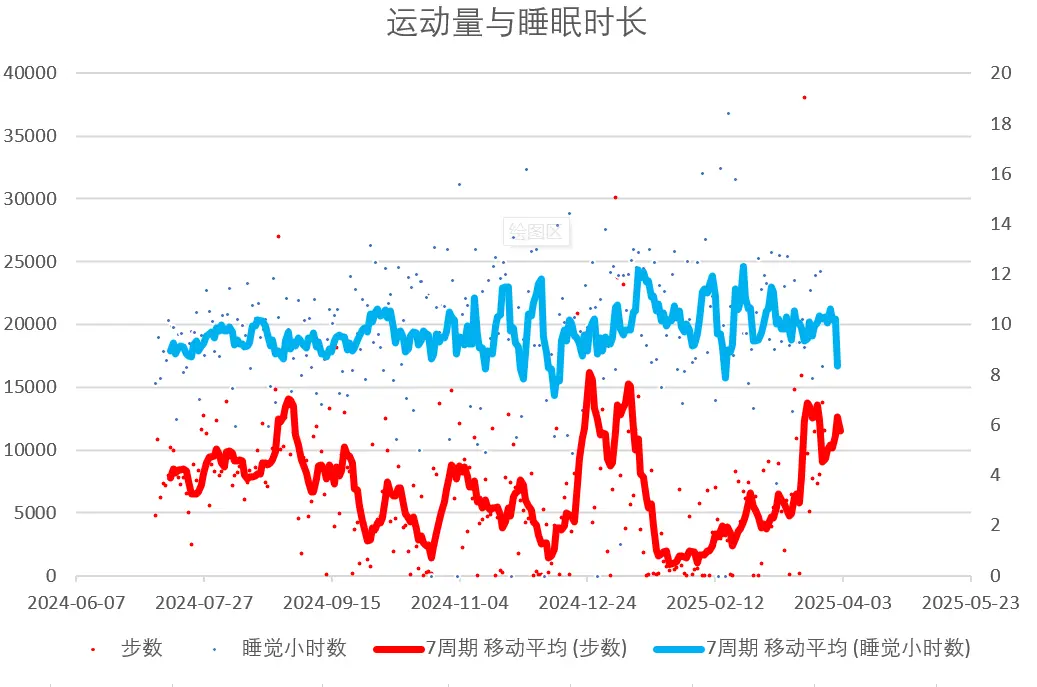
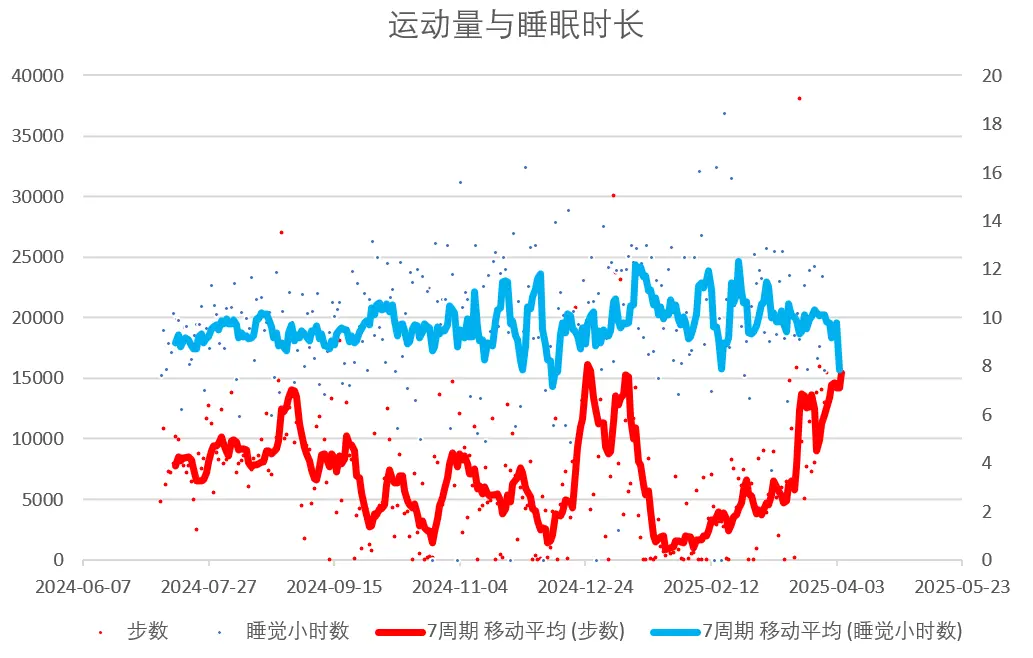
20250403

diff --git a/that.html b/that.html
@@ -12,12 +12,12 @@
 <link href="/blog/css/main.css" rel="stylesheet"/>
 <link crossorigin="anonymous" href="https://unpkg.com/@fortawesome/fontawesome-free@6.6.0/css/all.min.css" integrity="sha256-5eIC48iZUHmSlSUz9XtjRyK2mzQkHScZY1WdMaoz74E=" rel="stylesheet"/>
 <script class="next-config" data-name="main" type="application/json">{"hostname":"hrfis.me","root":"/blog/","images":"/blog/images","scheme":"Gemini","darkmode":false,"version":"8.21.0","exturl":false,"sidebar":{"position":"left","width_expanded":320,"width_dual_column":240,"display":"post","padding":18,"offset":12},"hljswrap":true,"copycode":{"enable":false,"style":null},"fold":{"enable":false,"height":500},"bookmark":{"enable":false,"color":"#222","save":"auto"},"mediumzoom":false,"lazyload":false,"pangu":true,"comments":{"style":"tabs","active":null,"storage":true,"lazyload":false,"nav":null},"stickytabs":false,"motion":{"enable":false,"async":false,"transition":{"menu_item":"fadeInDown","post_block":"fadeIn","post_header":"fadeInDown","post_body":"fadeInDown","coll_header":"fadeInLeft","sidebar":"fadeInUp"}},"i18n":{"placeholder":"搜索...","empty":"没有找到任何搜索结果：${query}","hits_time":"找到 ${hits} 个搜索结果（用时 ${time} 毫秒）","hits":"找到 ${hits} 个搜索结果"}}</script><script src="/blog/js/config.js"></script>
-<meta content="移动平均的特点是：即使你有一天走了 35000 步，但你如果在这之后的几天一步都不走的话，那么它会被拉低。在这幅图里，最右边的端点是尚未被之后的几天平均的。 为什么有时候早上还是起不来：还是出于一种逃避现实的心理，因为心里有事，有一些不太好的事情。但是最近的晚上都能睡着，比以前都进步了。" name="description"/>
+<meta content="移动平均的特点是：即使你有一天走了 35000 步，但你如果在这之后的几天一步都不走的话，那么它会被拉低。在这幅图里，最右边的端点是尚未被之后的几天平均的，也有在一天没有结束就上传的情况。 为什么有时候早上还是起不来：还是出于一种逃避现实的心理，因为心里有事，有一些不太好的事情。但是最近的晚上都能睡着，比以前都进步了。" name="description"/>
 <meta content="article" property="og:type"/>
 <meta content="旧事汇总处" property="og:title"/>
 <meta content="https://hrfis.me/blog/that.html" property="og:url"/>
 <meta content="若凡的笔记" property="og:site_name"/>
-<meta content="移动平均的特点是：即使你有一天走了 35000 步，但你如果在这之后的几天一步都不走的话，那么它会被拉低。在这幅图里，最右边的端点是尚未被之后的几天平均的。 为什么有时候早上还是起不来：还是出于一种逃避现实的心理，因为心里有事，有一些不太好的事情。但是最近的晚上都能睡着，比以前都进步了。" property="og:description"/>
+<meta content="移动平均的特点是：即使你有一天走了 35000 步，但你如果在这之后的几天一步都不走的话，那么它会被拉低。在这幅图里，最右边的端点是尚未被之后的几天平均的，也有在一天没有结束就上传的情况。 为什么有时候早上还是起不来：还是出于一种逃避现实的心理，因为心里有事，有一些不太好的事情。但是最近的晚上都能睡着，比以前都进步了。" property="og:description"/>
 <meta content="zh_CN" property="og:locale"/>
 <meta content="https://hrfis.me/blog/images/weekly/weekly.webp" property="og:image"/>
 <meta content="https://hrfis.me/blog/images/weierstrassa=0.5b=13.webp" property="og:image"/>
@@ -26,7 +26,7 @@
 <meta content="https://hrfis.me/blog/images/alpha-point.webp" property="og:image"/>
 <meta content="https://hrfis.me/blog/images/weekly/river.webp" property="og:image"/>
 <meta content="2014-09-03T13:00:00.000Z" property="article:published_time"/>
-<meta content="2025-04-02T07:20:03.411Z" property="article:modified_time"/>
+<meta content="2025-04-03T05:21:46.902Z" property="article:modified_time"/>
 <meta content="Ruofan" property="article:author"/>
 <meta content="summary" name="twitter:card"/>
 <meta content="https://hrfis.me/blog/images/weekly/weekly.webp" name="twitter:image"/>
@@ -82,7 +82,7 @@
 <div class="sidebar-panel-container">
 <!--noindex-->
 <div class="post-toc-wrap sidebar-panel">
-<div class="post-toc animated"><ol class="nav"><li class="nav-item nav-level-2"><a class="nav-link" href="#%E4%B8%BA%E4%BB%80%E4%B9%88%E8%A6%81%E8%B7%91%E6%AD%A5"><span class="nav-number">1.</span> <span class="nav-text">为什么要跑步</span></a></li><li class="nav-item nav-level-2"><a class="nav-link" href="#%E6%88%91%E7%9A%84%E6%80%A7%E6%A0%BC%E9%94%99%E8%AF%AF"><span class="nav-number">2.</span> <span class="nav-text">我的性格错误</span></a></li><li class="nav-item nav-level-2"><a class="nav-link" href="#ai-%E7%94%9F%E6%88%90%E7%9A%84%E5%BC%8A%E7%AB%AF"><span class="nav-number">3.</span> <span class="nav-text">AI 生成的弊端</span></a></li><li class="nav-item nav-level-2"><a class="nav-link" href="#%E4%B8%BA%E4%BB%80%E4%B9%88%E6%96%87%E5%AD%97%E7%9A%84%E6%80%A7%E6%A0%BC%E6%AF%94%E5%8F%A3%E5%A4%B4%E7%9A%84%E6%B4%BB%E8%B7%83"><span class="nav-number">4.</span> <span class="nav-text">为什么文字的性格比口头的活跃</span></a></li><li class="nav-item nav-level-2"><a class="nav-link" href="#%E4%B8%BA%E4%BB%80%E4%B9%88%E8%AF%B4%E8%87%AA%E5%B7%B1%E6%98%AF%E4%BC%AA%E5%96%84%E7%9A%84"><span class="nav-number">5.</span> <span class="nav-text">为什么说自己是伪善的</span></a></li><li class="nav-item nav-level-2"><a class="nav-link" href="#%E6%88%91%E7%9A%84%E4%BC%98%E7%82%B9%E5%92%8C%E7%BC%BA%E7%82%B9"><span class="nav-number">6.</span> <span class="nav-text">我的优点和缺点</span></a></li><li class="nav-item nav-level-2"><a class="nav-link" href="#%E4%B8%80%E7%A7%8D%E5%8F%AF%E4%BB%A5%E8%A2%AB%E5%8F%99%E8%BF%B0%E7%9A%84%E7%97%87%E7%8A%B6%E6%83%AD%E6%84%A7"><span class="nav-number">7.</span> <span class="nav-text">一种可以被叙述的症状：惭愧</span></a></li><li class="nav-item nav-level-2"><a class="nav-link" href="#%E9%BB%91%E5%8E%86%E5%8F%B2"><span class="nav-number">8.</span> <span class="nav-text">黑历史</span></a></li><li class="nav-item nav-level-2"><a class="nav-link" href="#%E4%B8%BB%E4%BA%BA%E8%83%BD%E6%8C%87%E4%B8%8E%E7%97%87%E7%8A%B6"><span class="nav-number">9.</span> <span class="nav-text">主人能指与症状</span></a></li><li class="nav-item nav-level-2"><a class="nav-link" href="#%E5%86%85%E5%90%91%E8%80%85%E7%9A%84%E5%9B%B4%E5%9F%8E"><span class="nav-number">10.</span> <span class="nav-text">内向者的围城</span></a></li><li class="nav-item nav-level-2"><a class="nav-link" href="#%E8%AF%B4%E8%AF%9D%E5%8D%A1%E5%A3%B3%E7%9A%84%E5%8E%9F%E5%9B%A0"><span class="nav-number">11.</span> <span class="nav-text">说话卡壳的原因</span></a></li><li class="nav-item nav-level-2"><a class="nav-link" href="#%E7%97%87%E7%8A%B6%E8%87%AA%E8%BF%B0%E6%82%96%E8%AE%BA"><span class="nav-number">12.</span> <span class="nav-text">症状自述悖论</span></a></li><li class="nav-item nav-level-2"><a class="nav-link" href="#%E5%88%9B%E4%BC%A4%E7%9A%84%E4%BB%A3%E9%99%85%E4%BC%A0%E9%80%92"><span class="nav-number">13.</span> <span class="nav-text">创伤的代际传递</span></a></li><li class="nav-item nav-level-2"><a class="nav-link" href="#%E5%85%B3%E4%BA%8E%E6%88%91%E4%BC%9A%E4%B8%8D%E4%BC%9A%E6%B3%84%E9%9C%B2%E6%9C%8B%E5%8F%8B%E7%9A%84%E9%9A%90%E7%A7%81"><span class="nav-number">14.</span> <span class="nav-text">关于我会不会泄露朋友的隐私</span></a></li><li class="nav-item nav-level-2"><a class="nav-link" href="#%E5%BF%83%E7%90%86%E7%96%BE%E7%97%85%E7%9A%84%E7%97%87%E7%8A%B6%E6%98%AF%E7%BB%93%E6%9E%9C%E8%80%8C%E9%9D%9E%E5%8E%9F%E5%9B%A0"><span class="nav-number">15.</span> <span class="nav-text">心理疾病的症状是结果，而非原因</span></a></li><li class="nav-item nav-level-2"><a class="nav-link" href="#%E5%A6%82%E4%BD%95%E8%AF%B4%E6%9C%8D%E8%87%AA%E5%B7%B1%E5%BF%83%E7%90%86%E5%88%9B%E4%BC%A4%E6%98%AF%E5%AE%A2%E8%A7%82%E4%B8%8D%E5%AD%98%E5%9C%A8%E7%9A%84"><span class="nav-number">16.</span> <span class="nav-text">如何说服自己：心理创伤是客观不存在的</span></a></li><li class="nav-item nav-level-2"><a class="nav-link" href="#%E5%B9%B4%E4%B8%AD%E6%80%BB%E7%BB%93"><span class="nav-number">17.</span> <span class="nav-text">2025 年中总结</span></a></li><li class="nav-item nav-level-2"><a class="nav-link" href="#%E5%B9%B4%E4%B8%AD%E6%80%BB%E7%BB%93-1"><span class="nav-number">18.</span> <span class="nav-text">2024 年中总结</span></a></li><li class="nav-item nav-level-2"><a class="nav-link" href="#%E6%BD%9C%E5%8A%9B%E6%B5%8B%E8%AF%95"><span class="nav-number">19.</span> <span class="nav-text">潜力测试</span></a></li></ol></div>
+<div class="post-toc animated"><ol class="nav"><li class="nav-item nav-level-2"><a class="nav-link" href="#%E4%B8%BA%E4%BB%80%E4%B9%88%E8%A6%81%E8%B7%91%E6%AD%A5"><span class="nav-number">1.</span> <span class="nav-text">为什么要跑步</span></a></li><li class="nav-item nav-level-2"><a class="nav-link" href="#%E6%88%91%E7%9A%84%E6%80%A7%E6%A0%BC%E9%94%99%E8%AF%AF"><span class="nav-number">2.</span> <span class="nav-text">我的性格错误</span></a></li><li class="nav-item nav-level-2"><a class="nav-link" href="#ai-%E7%94%9F%E6%88%90%E7%9A%84%E5%BC%8A%E7%AB%AF"><span class="nav-number">3.</span> <span class="nav-text">AI 生成的弊端</span></a></li><li class="nav-item nav-level-2"><a class="nav-link" href="#%E4%B8%BA%E4%BB%80%E4%B9%88%E6%96%87%E5%AD%97%E7%9A%84%E6%80%A7%E6%A0%BC%E6%AF%94%E5%8F%A3%E5%A4%B4%E7%9A%84%E6%B4%BB%E8%B7%83"><span class="nav-number">4.</span> <span class="nav-text">为什么文字的性格比口头的活跃</span></a></li><li class="nav-item nav-level-2"><a class="nav-link" href="#%E4%B8%BA%E4%BB%80%E4%B9%88%E8%AF%B4%E8%87%AA%E5%B7%B1%E6%98%AF%E4%BC%AA%E5%96%84%E7%9A%84"><span class="nav-number">5.</span> <span class="nav-text">为什么说自己是伪善的</span></a></li><li class="nav-item nav-level-2"><a class="nav-link" href="#%E6%88%91%E7%9A%84%E4%BC%98%E7%82%B9%E5%92%8C%E7%BC%BA%E7%82%B9"><span class="nav-number">6.</span> <span class="nav-text">我的优点和缺点</span></a></li><li class="nav-item nav-level-2"><a class="nav-link" href="#%E4%B8%80%E7%A7%8D%E5%8F%AF%E4%BB%A5%E8%A2%AB%E5%8F%99%E8%BF%B0%E7%9A%84%E7%97%87%E7%8A%B6%E6%83%AD%E6%84%A7"><span class="nav-number">7.</span> <span class="nav-text">一种可以被叙述的症状：惭愧</span></a></li><li class="nav-item nav-level-2"><a class="nav-link" href="#%E5%88%9D%E4%B8%AD%E6%97%B6%E6%9C%9F%E7%9A%84%E6%89%A7%E5%BF%B5"><span class="nav-number">8.</span> <span class="nav-text">初中时期的执念</span></a></li><li class="nav-item nav-level-2"><a class="nav-link" href="#%E9%BB%91%E5%8E%86%E5%8F%B2"><span class="nav-number">9.</span> <span class="nav-text">黑历史</span></a></li><li class="nav-item nav-level-2"><a class="nav-link" href="#%E4%B8%BB%E4%BA%BA%E8%83%BD%E6%8C%87%E4%B8%8E%E7%97%87%E7%8A%B6"><span class="nav-number">10.</span> <span class="nav-text">主人能指与症状</span></a></li><li class="nav-item nav-level-2"><a class="nav-link" href="#%E5%86%85%E5%90%91%E8%80%85%E7%9A%84%E5%9B%B4%E5%9F%8E"><span class="nav-number">11.</span> <span class="nav-text">内向者的围城</span></a></li><li class="nav-item nav-level-2"><a class="nav-link" href="#%E8%AF%B4%E8%AF%9D%E5%8D%A1%E5%A3%B3%E7%9A%84%E5%8E%9F%E5%9B%A0"><span class="nav-number">12.</span> <span class="nav-text">说话卡壳的原因</span></a></li><li class="nav-item nav-level-2"><a class="nav-link" href="#%E7%97%87%E7%8A%B6%E8%87%AA%E8%BF%B0%E6%82%96%E8%AE%BA"><span class="nav-number">13.</span> <span class="nav-text">症状自述悖论</span></a></li><li class="nav-item nav-level-2"><a class="nav-link" href="#%E5%88%9B%E4%BC%A4%E7%9A%84%E4%BB%A3%E9%99%85%E4%BC%A0%E9%80%92"><span class="nav-number">14.</span> <span class="nav-text">创伤的代际传递</span></a></li><li class="nav-item nav-level-2"><a class="nav-link" href="#%E5%85%B3%E4%BA%8E%E6%88%91%E4%BC%9A%E4%B8%8D%E4%BC%9A%E6%B3%84%E9%9C%B2%E6%9C%8B%E5%8F%8B%E7%9A%84%E9%9A%90%E7%A7%81"><span class="nav-number">15.</span> <span class="nav-text">关于我会不会泄露朋友的隐私</span></a></li><li class="nav-item nav-level-2"><a class="nav-link" href="#%E5%BF%83%E7%90%86%E7%96%BE%E7%97%85%E7%9A%84%E7%97%87%E7%8A%B6%E6%98%AF%E7%BB%93%E6%9E%9C%E8%80%8C%E9%9D%9E%E5%8E%9F%E5%9B%A0"><span class="nav-number">16.</span> <span class="nav-text">心理疾病的症状是结果，而非原因</span></a></li><li class="nav-item nav-level-2"><a class="nav-link" href="#%E5%A6%82%E4%BD%95%E8%AF%B4%E6%9C%8D%E8%87%AA%E5%B7%B1%E5%BF%83%E7%90%86%E5%88%9B%E4%BC%A4%E6%98%AF%E5%AE%A2%E8%A7%82%E4%B8%8D%E5%AD%98%E5%9C%A8%E7%9A%84"><span class="nav-number">17.</span> <span class="nav-text">如何说服自己：心理创伤是客观不存在的</span></a></li><li class="nav-item nav-level-2"><a class="nav-link" href="#%E5%B9%B4%E4%B8%AD%E6%80%BB%E7%BB%93"><span class="nav-number">18.</span> <span class="nav-text">2025 年中总结</span></a></li><li class="nav-item nav-level-2"><a class="nav-link" href="#%E5%B9%B4%E4%B8%AD%E6%80%BB%E7%BB%93-1"><span class="nav-number">19.</span> <span class="nav-text">2024 年中总结</span></a></li><li class="nav-item nav-level-2"><a class="nav-link" href="#%E6%BD%9C%E5%8A%9B%E6%B5%8B%E8%AF%95"><span class="nav-number">20.</span> <span class="nav-text">潜力测试</span></a></li></ol></div>
 </div>
 <!--/noindex-->
 <div class="site-overview-wrap sidebar-panel">
@@ -144,7 +144,7 @@
 <i class="far fa-calendar-check"></i>
 </span>
 <span class="post-meta-item-text">更新于</span>
-<time datetime="2025-04-02T15:20:03+08:00" itemprop="dateModified" title="修改时间：2025-04-02 15:20:03">2025-04-02</time>
+<time datetime="2025-04-03T13:21:46+08:00" itemprop="dateModified" title="修改时间：2025-04-03 13:21:46">2025-04-03</time>
 </span>
 <span class="post-meta-item">
 <span class="post-meta-item-icon">
@@ -167,21 +167,22 @@
 <i class="far fa-clock"></i>
 </span>
 <span class="post-meta-item-text">阅读时长 ≈</span>
-<span>42 分钟</span>
+<span>43 分钟</span>
 </span>
 </div>
 </div>
 </header>
 <div class="post-body" itemprop="articleBody"><p><img src="/blog/images/weekly/weekly.webp"/></p>
 <p>移动平均的特点是：即使你有一天走了 35000
-步，但你如果在这之后的几天一步都不走的话，那么它会被拉低。在这幅图里，最右边的端点是尚未被之后的几天平均的。</p>
+步，但你如果在这之后的几天一步都不走的话，那么它会被拉低。在这幅图里，最右边的端点是尚未被之后的几天平均的，也有在一天没有结束就上传的情况。</p>
 <p>为什么有时候早上还是起不来：还是出于一种逃避现实的心理，因为心里有事，有一些不太好的事情。但是最近的晚上都能睡着，比以前都进步了。</p>
 <span id="more"></span>
 <h2 id="为什么要跑步">为什么要跑步</h2>
 <p>为了新陈代谢。吃饭和喝水都是新陈代谢的一种方式，包括献血也是。由于我在静止、甚至在快步走路的情况下都是很难感觉到饿的，一般要等到非常饿的时候才吃得下饭，非常渴的时候才想得到喝水。跑步能让我在自然情况下被压制的饥饿感和渴感露出水面之上。</p>
 <h2 id="我的性格错误">我的性格错误</h2>
-<p>有时候觉得，让别人感到舒服是不太好的。比如有时候，我知道该怎么回复，能让别人的感受更好，但是我就是想避开这个回复。俗话说少不看水浒，这可能因为笔者小时候喜欢看《水浒传》，它的特点是，里面有许多拿钱贿赂别人的桥段。我老是觉得贿赂别人是不对的，比如说，有时候给别人说一句鼓励的话，就是贿赂别人，是在做人情投资，因为钱总是能让我联想到贿赂。更准确地说是：让别人开心
--&gt; 投资 -&gt; 给钱 -&gt; 贿赂的这一条联想的路。</p>
+<p>有时候觉得，让别人感到舒服是不太好的。比如有时候，我知道该怎么回复，能让别人的感受更好，但是我就是想避开这个回复。感觉有时候给别人说一句鼓励的话，就是在贿赂别人，是在做人情投资。钱总是能让我联想到贿赂。</p>
+<p>整理一下就是：让别人开心 -&gt; 投资 -&gt; 给钱 -&gt;
+贿赂的这一条自动思维。</p>
 <ul>
 <li>让别人开心 -&gt;
 投资：首先这个链条是不对的，前者分期待收益和不期待收益的情况，后者主要强调期待收益。这个链条通了，说明我是期待收益的</li>
@@ -194,12 +195,12 @@
 <blockquote>
 <p>这种思维模式反映出您对人际关系中 "纯粹性" 的高度敏感。您似乎在进行一种 "道德溯因"：当觉察到某个行为可能带有潜在目的时，就会产生强烈的排异反应。</p>
 </blockquote>
-<p>在《水浒传》里，起义的一方和朝廷的一方好像两头都是坏人，没有一个是完全的正方。或者正确地说，很多人的性格是既有善又有恶的：善的人被逼出了恶的一面的如林冲、武松；恶占多数，善占少数的如李逵（杀平民，但是孝敬母亲）；说不清善恶的如张青（人肉包子，但是把武松放了）。按书里的第一回，108
-将是来自天上星星对应的妖魔，但是妖魔也不是完全负面的词。再加上水浒传是悲剧结局，善终的人还是占少数。看《水浒传》的经历可能在某种程度上塑造了我的性格。我看的书很少，也没看过别的。还有《格列佛游记》，它的最后一篇也是比较悲观的。</p>
+<p>俗话说少不看水浒，这可能因为笔者小时候喜欢看《水浒传》，它的特点是，里面有许多拿钱贿赂别人的桥段。最主要的是，它是悲剧结局，相当于前面那么多人情，到最后还是没了。</p>
+<p>看《水浒传》的经历可能在某种程度上塑造了我的性格，我看的书很少，也没看过别的。还有《格列佛游记》，它的最后一篇也是比较悲观的。</p>
 <h2 id="ai-生成的弊端">AI 生成的弊端</h2>
-<p>当你给出不合适的提示词的时候，它会曲解你的原意，把你相对正经的情绪给轻蔑化、夸张化。这可能会造成别人的误解，因为你原本的情绪和
+<p>当你给出不合适的提示词的时候，它会曲解你的原意，给你添油加醋。这可能会造成别人的误解，因为你原本的情绪和
 AI 生成的是不一致的。很多纠结的时候就是出自这种情况：觉得 AI
-写得文字太油滑了，但是比自己写得稍微好一点。那为什么还是保留了：因为有节目效果。但是也有创伤。创伤转换成节目效果之后就不那么疼了。</p>
+写得文字太油滑了，但是比自己写得好一点。那为什么还是保留了：因为有节目效果。但是也有创伤。创伤转换成节目效果之后就不那么疼了。</p>
 <p>用 AI 修改过的文字包括这些：</p>
 <blockquote>
 <p>本网页的：内向者的围城 说话卡壳的原因 症状自述悖论 创伤的代际传递
@@ -217,20 +218,22 @@ AI
 的 “幻觉现象” 差不多，因为我和它都是通过以前阅读过的文字按概率生成的，且它阅读得远比我多。</p>
 <p>目的上的：因为这里是主场，在出于一种追求节目效果的情况下，可能会故意地夸大一些事实。节目效果的意思是：故意地给别人留下某种印象，不管是好的还是坏的，且留下好的和坏的印象都有好处。</p>
 <h2 id="为什么说自己是伪善的">为什么说自己是伪善的</h2>
-<p>为什么说，给别人留下坏的印象也有好处呢？现在只想到了这两点</p>
+<p>为什么说，给别人留下坏的印象也有好处呢？现在只想到了这三点</p>
 <ol type="1">
-<li>一种做反面教材的心理。因为反面教材也是有用的，作一个镜子。是为了追求一种同频共振。同频共振的意思是：让对方看到，现在的我和以前的对方身上是有相似之处的，在某种程度上感化对方，然后达成第二点的目标。这在心理学上可能叫投射性认同。</li>
+<li>一种做反面教材的心理。因为反面教材也是有用的。之所以展示自己现在身上不好的地方，是为了让别人未来不要变成自己这样。这个逻辑是非常奇怪的。</li>
+<li>为了追求一种同频共振。同频共振的意思是：作一面镜子，让对方看到，现在的我和以前的对方身上是有相似之处的，在某种程度上感化对方。这在心理学上可能叫投射性认同，是这个词的其中一种意思。</li>
 <li>展示自己弱小的一面，以求别人宽容，把自己现在身上的责任减轻一点</li>
 </ol>
 <p>自我批评上的伪善：没有具体相对人的自我批评是不真诚的，是一种<a href="/blog/psychology.html#%E5%90%91%E5%86%85">向攻击者认同</a>的方式。自我批评的本质就是节目效果。</p>
-<p>伪善的另一种意思：功能性的作用。一个表面问题：自己希不希望自己变好；一个本体论问题：心理疾病是否真的存在。我们假设一下：如果心理疾病是不存在的，那么应该如何解释患者主观的痛苦感受和异常的行为。有一种解释方式是：太入戏了。入戏的意思是，可能原来不是这样的，但是出于一种继发性获益的心态，所以维持着病人的身份。入戏的对立面是出戏，意思就是说，存在着一种可能，如果自己认为自己是根本没有这个病的，这个病自然就会好。这就和给自己积极的暗示的原理是一样的。从这个角度来说，我们可以把伪善翻译成装好。</p>
+<p>人格的多面性 / 视差：在《水浒传》里，起义的一方和朝廷的一方都不是完全的正方。很多人的性格是既有善又有恶的：善的人被逼出了恶的一面的如林冲、武松；恶占多数，善占少数的如李逵（杀平民，但是孝敬母亲）；说不清善恶的如张青（人肉包子，但是把武松放了）。按书里的第一回，108
+将是来自天上星星对应的妖魔，但是妖魔也不是完全负面的词。</p>
+<p>伪善的另一种意思：功能性的作用。一个表面问题：自己希不希望自己变好；一个本体论问题：心理疾病是否真的存在。我们假设一下：如果心理疾病是不存在的，那么应该如何解释患者主观的痛苦感受和异常的行为。有一种解释方式是：太入戏了。入戏的意思是，可能原来不是这样的，但是出于一种继发性获益的心态，所以维持着病人的身份，即自己不希望自己变好。入戏的对立面是出戏，意思就是说，存在着一种可能，如果自己认为自己是根本没有这个病的，这个病自然就会好。这就和给自己积极的暗示的原理是一样的。从这个角度来说，我们可以把伪善翻译成装好。</p>
 <p>这里只是提出一个假说：心理疾病可能分心理和生理的两部分。心理的问题需要自己克服，生理的问题需要药物克服。两者可能会互相作用，比如药物会增强自己克服心理问题的动机（不管是安慰剂还是受体上的作用），自己克服一个心理问题之后，生理反应可能会减少。</p>
 <h2 id="我的优点和缺点">我的优点和缺点</h2>
 <p>优点：</p>
 <ol type="1">
 <li>节俭。小学时期没用完的草稿本到现在还在</li>
 <li>睡前不看手机，且睡觉时间不会超过晚上 11 点</li>
-<li>喝水的量比饮料多</li>
 <li>会一点做饭</li>
 <li>用线穿针眼的时候，大概率能一次性穿过去</li>
 <li>有一点倾听的能力</li>
@@ -262,6 +265,18 @@ AI
 xxx 的时候”，我那时候是全身发痒和发痛的，表现得确实不像正常人。休学是
 2021 年上半年，但是我直到 2023
 年下半年才变得愿意说话，那时候父亲来看我，我还把他弄哭了，因为他觉得自己太委屈了，怎么有这样的儿子。有时候，我在看自己以前写的东西的时候，也会出现这种情况。说不定当有人在我面前提起这个站点的时候，可能也会出现。所以这是一件非常矛盾的事情，既想有存在感，又害怕有存在感。</p>
+<h2 id="初中时期的执念">初中时期的执念</h2>
+<p>我觉得有必要把这些事重新提一遍。因为我第一次写童年回忆录就是在初中写的，回忆了搬家之前的经历。那说明我初中时期是有委屈的，但是这个委屈一直都没有表达出来，在这之前是写过一次的，后来又被我删了。现在我觉得没必要删了：</p>
+<ol type="1">
+<li>和班上性子最野的五个同学分到一个组，他们天天上课讲黄色笑话。牵连我，老师认为我没有听讲</li>
+<li>数学老师认为我没有听讲，批评我。我现在还记得，当她报考试成绩，报出我满分时，她是什么表情</li>
+<li>英语老师由于我们组闹，让我回答 PPT
+上的问题，我没有回答上来，她认为我没有听讲。事实是因为换座位我调到后头了，我眼睛近视，看不见</li>
+<li>语文老师罚我蹲着写作文。事实是我不会写，写不出来</li>
+<li>地理老师挺好的，但是有一次上课坐对面的同学闹我，结果到最后只有我被叫到办公室了。他拿起了成绩表，发现我排在中间。这纯属于是自己倒霉，因为我在之前都是排在前几名，就这一次失误了，刚好被他撞上。这件事情的结果是我在办公室哭抽抽了。</li>
+<li>有一个人欺凌我，但是我有一次给他反击了。</li>
+</ol>
+<p>初中我还当过生物课代表。说明我那时候也不是完全怂的，但是也仅限于和同桌说话，听讲的时候不敢抬头太高，不敢看老师眼睛。</p>
 <h2 id="黑历史">黑历史</h2>
 <p>最痛苦的一段时间，就是刚复学住寝室的时候，每天过得心如刀割。因为我不敢和他们说话，所以白天能避开就避开，但是别的人多的地方我也不敢去，所以就在学校的一片树林里的一个凳子上坐着，晚上插着耳机听《秦皇岛》，基本都听吐了，还是不行。他们晚上在打游戏，我也不好意思给他们提意见，住了至少有一两个学期，基本一句话都没有说，所以最后才搬到校外了。更痛苦的是开学的时候，因为我没有寝室钥匙。高中有一天中午还被锁在寝室里了。我的昨天永远都是黑历史。乐观一点的说法就是一直在进步。</p>
 <ol type="1">
@@ -505,7 +520,7 @@ Flume
 <span class="post-meta-item-icon">
 <i class="fa fa-coffee"></i>
 </span>
-<span title="站点阅读时长">7:13</span>
+<span title="站点阅读时长">7:15</span>
 </span>
 </div>
 <div class="powered-by">由 <a href="https://hexo.io/" rel="noopener" target="_blank">Hexo</a> &amp; <a href="https://theme-next.js.org/" rel="noopener" target="_blank">NexT.Gemini</a> 强力驱动

diff --git a/psychology.html b/psychology.html
@@ -1144,7 +1144,7 @@ A 以某种方式对待你，之后你用同样的方式对待另一个人 B</li
 <span class="post-meta-item-icon">
 <i class="fa fa-coffee"></i>
 </span>
-<span title="站点阅读时长">7:13</span>
+<span title="站点阅读时长">7:15</span>
 </span>
 </div>
 <div class="powered-by">由 <a href="https://hexo.io/" rel="noopener" target="_blank">Hexo</a> &amp; <a href="https://theme-next.js.org/" rel="noopener" target="_blank">NexT.Gemini</a> 强力驱动

diff --git a/about/index.html b/about/index.html
@@ -235,7 +235,7 @@ UML 类图和时序图</a> | <a href="https://refactoringguru.cn/" rel="noopener
 <span class="post-meta-item-icon">
 <i class="fa fa-coffee"></i>
 </span>
-<span title="站点阅读时长">7:13</span>
+<span title="站点阅读时长">7:15</span>
 </span>
 </div>
 <div class="powered-by">由 <a href="https://hexo.io/" rel="noopener" target="_blank">Hexo</a> &amp; <a href="https://theme-next.js.org/" rel="noopener" target="_blank">NexT.Gemini</a> 强力驱动

diff --git a/amap-poi-search.html b/amap-poi-search.html
@@ -242,7 +242,7 @@ API - 行政区域查询，它可以返回一个行政区的边界字符串。</
 <span class="post-meta-item-icon">
 <i class="fa fa-coffee"></i>
 </span>
-<span title="站点阅读时长">7:13</span>
+<span title="站点阅读时长">7:15</span>
 </span>
 </div>
 <div class="powered-by">由 <a href="https://hexo.io/" rel="noopener" target="_blank">Hexo</a> &amp; <a href="https://theme-next.js.org/" rel="noopener" target="_blank">NexT.Gemini</a> 强力驱动

diff --git a/book.html b/book.html
@@ -265,7 +265,7 @@ nüā）子；所有成人已婚男性统称男将，所有成人已婚女性统
 <span class="post-meta-item-icon">
 <i class="fa fa-coffee"></i>
 </span>
-<span title="站点阅读时长">7:13</span>
+<span title="站点阅读时长">7:15</span>
 </span>
 </div>
 <div class="powered-by">由 <a href="https://hexo.io/" rel="noopener" target="_blank">Hexo</a> &amp; <a href="https://theme-next.js.org/" rel="noopener" target="_blank">NexT.Gemini</a> 强力驱动

diff --git a/computer-organization.html b/computer-organization.html
@@ -707,7 +707,7 @@ Engineers）制定的关于浮点数表示和运算的标准。最新标准是 <
 <span class="post-meta-item-icon">
 <i class="fa fa-coffee"></i>
 </span>
-<span title="站点阅读时长">7:13</span>
+<span title="站点阅读时长">7:15</span>
 </span>
 </div>
 <div class="powered-by">由 <a href="https://hexo.io/" rel="noopener" target="_blank">Hexo</a> &amp; <a href="https://theme-next.js.org/" rel="noopener" target="_blank">NexT.Gemini</a> 强力驱动

diff --git a/discrete-mathematics.html b/discrete-mathematics.html
@@ -343,7 +343,7 @@ x 是什么东西的。后者……）。所以它们<strong>不是命题</stron
 <span class="post-meta-item-icon">
 <i class="fa fa-coffee"></i>
 </span>
-<span title="站点阅读时长">7:13</span>
+<span title="站点阅读时长">7:15</span>
 </span>
 </div>
 <div class="powered-by">由 <a href="https://hexo.io/" rel="noopener" target="_blank">Hexo</a> &amp; <a href="https://theme-next.js.org/" rel="noopener" target="_blank">NexT.Gemini</a> 强力驱动

diff --git a/lacan.html b/lacan.html
@@ -415,7 +415,7 @@ S(\not{A})}\)</span>：对缺失的想象的菲勒斯的追求。如果把这条
 <span class="post-meta-item-icon">
 <i class="fa fa-coffee"></i>
 </span>
-<span title="站点阅读时长">7:13</span>
+<span title="站点阅读时长">7:15</span>
 </span>
 </div>
 <div class="powered-by">由 <a href="https://hexo.io/" rel="noopener" target="_blank">Hexo</a> &amp; <a href="https://theme-next.js.org/" rel="noopener" target="_blank">NexT.Gemini</a> 强力驱动
